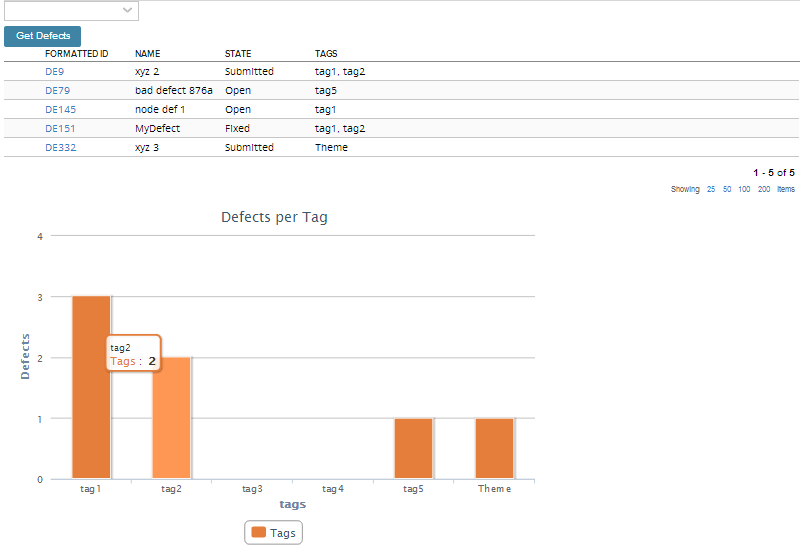
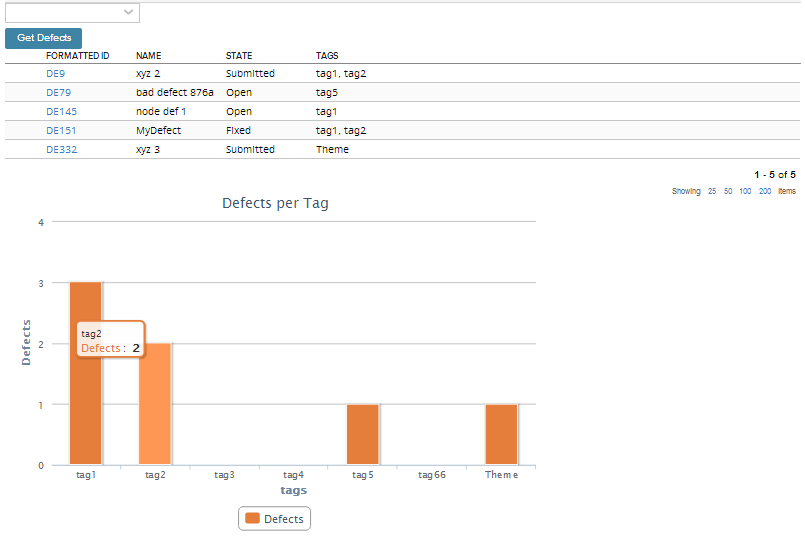
corrected name in series

Changed region(s): [[0.0, 0.0, 0.9938, 0.3831], [0.0, 0.5009, 0.6522, 1.0], [0.2484, 0.3536, 0.4348, 0.4125]]

diff --git a/deploy/App.html b/deploy/App.html
@@ -7,7 +7,7 @@
 
     <script type="text/javascript">
         Rally.onReady(function () {
-                Ext.define("CustomApp",{extend:"Rally.app.App",componentCls:"app",items:[{xtype:"container",itemId:"widgets"},{xtype:"container",itemId:"gridContainer",columnWidth:1}],launch:function(){var that=this;that.tagPicker=Ext.create("Rally.ui.picker.TagPicker",{itemId:"tagpicker"}),that.down("#widgets").add(this.tagPicker),that.down("#widgets").add({xtype:"rallybutton",id:"getTasks",text:"Get Defects",handler:function(){that._getDefects()}})},_getDefects:function(){var count=0,that=this,selectedTagRecords=this.tagPicker._getRecordValue();if(that._tagNames=[],that._defectsPerTag={},console.log(selectedTagRecords.length),selectedTagRecords.length>0){var tagFilters=[];_.each(selectedTagRecords,function(thisTag){var thisTagName=thisTag.get("Name");that._tagNames.push(thisTagName);var tagFilter={property:"Tags.Name",operator:"contains",value:thisTagName};tagFilters.push(tagFilter)}),that._defectsPerTag=_.object(_.map(that._tagNames,function(item){return[item,count]}))}else that._noTagsNotify();Ext.create("Rally.data.wsapi.Store",{model:"Defect",fetch:["FormattedID","Name","State"],autoLoad:!0,listeners:{load:this._onDefectsLoaded,scope:this},filters:Rally.data.wsapi.Filter.or(tagFilters)})},_onDefectsLoaded:function(store,records){var that=this,promises=[];0===records.length&&that._noArtifactsNotify(),_.each(records,function(artifact){promises.push(that._getArtifactTags(artifact,that))}),Deft.Promise.all(promises).then({success:function(results){that._artifactsWithTags=results,console.log("that._defectsPerTag",that._defectsPerTag),that._makeGrid()}})},_getArtifactTags:function(artifact,scope){var that=this,deferred=Ext.create("Deft.Deferred"),that=scope,tags=[],artifactRef=artifact.get("_ref"),artifactObjectID=artifact.get("ObjectID"),artifactFormattedID=artifact.get("FormattedID"),artifactName=artifact.get("Name"),artifactState=artifact.get("State"),tagsCollection=artifact.getCollection("Tags",{fetch:["Name","ObjectID"]}),tagCount=tagsCollection.getCount();return tagsCollection.load({callback:function(records,operation,success){_.each(records,function(tag){tags.push(tag);for(k in that._defectsPerTag)k===tag.get("Name")&&that._defectsPerTag[k]++}),result={_ref:artifactRef,ObjectID:artifactObjectID,FormattedID:artifactFormattedID,Name:artifactName,State:artifactState,Tags:tags},deferred.resolve(result)}}),deferred},_makeGrid:function(){var that=this;console.log("that._artifactsWithTags",that._artifactsWithTags),that._artifactTagsGrid&&that._artifactTagsGrid.destroy();var gridStore=Ext.create("Rally.data.custom.Store",{data:that._artifactsWithTags,pageSize:1e3,remoteSort:!1});that._artifactTagsGrid=Ext.create("Rally.ui.grid.Grid",{itemId:"artifactGrid",store:gridStore,columnCfgs:[{text:"Formatted ID",dataIndex:"FormattedID",xtype:"templatecolumn",tpl:Ext.create("Rally.ui.renderer.template.FormattedIDTemplate")},{text:"Name",dataIndex:"Name"},{text:"State",dataIndex:"State"},{text:"Tags",dataIndex:"Tags",renderer:function(values){var tagArray=[];return _.each(values,function(tag){var tagName=tag.get("Name");tagArray.push(tagName)}),tagArray.join(", ")},flex:1}]}),that.down("#gridContainer").add(that._artifactTagsGrid),that._artifactTagsGrid.reconfigure(gridStore),that._prepareChart()},_noArtifactsNotify:function(){this.down("#gridContainer").add({xtype:"container",html:"No artifacts found matching some or all selected tags."})},_prepareChart:function(){var that=this;that._series=[],that._categories=[],that._data=[];var numberOfTags=_.size(that._defectsPerTag);console.log("numberOfTags",numberOfTags);for(k in that._defectsPerTag)that._categories.push(k),that._data.push({name:k,y:that._defectsPerTag[k]});that._makeChart()},_makeChart:function(){this.down("#myChart")&&this.remove("myChart"),this.add({xtype:"rallychart",itemId:"myChart",width:600,chartConfig:{chart:{type:"column",zoomType:"xy"},title:{text:"Defects per Tag"},xAxis:{title:{enabled:!0,tickInterval:1,text:"tags"},startOnTick:!0,endOnTick:!0,showLastLabel:!0,allowDecimals:!1},yAxis:{title:{text:"Defects"},allowDecimals:!1}},chartData:{categories:this._categories,series:[{type:"column",name:"Tags",data:this._data}]}}),this.down("#myChart")._unmask()}});
+                Ext.define("CustomApp",{extend:"Rally.app.App",componentCls:"app",items:[{xtype:"container",itemId:"widgets"},{xtype:"container",itemId:"gridContainer",columnWidth:1}],launch:function(){var that=this;that.tagPicker=Ext.create("Rally.ui.picker.TagPicker",{itemId:"tagpicker"}),that.down("#widgets").add(this.tagPicker),that.down("#widgets").add({xtype:"rallybutton",id:"getTasks",text:"Get Defects",handler:function(){that._getDefects()}})},_getDefects:function(){var count=0,that=this,selectedTagRecords=this.tagPicker._getRecordValue();if(that._tagNames=[],that._defectsPerTag={},console.log(selectedTagRecords.length),selectedTagRecords.length>0){var tagFilters=[];_.each(selectedTagRecords,function(thisTag){var thisTagName=thisTag.get("Name");that._tagNames.push(thisTagName);var tagFilter={property:"Tags.Name",operator:"contains",value:thisTagName};tagFilters.push(tagFilter)}),that._defectsPerTag=_.object(_.map(that._tagNames,function(item){return[item,count]}))}else that._noTagsNotify();Ext.create("Rally.data.wsapi.Store",{model:"Defect",fetch:["FormattedID","Name","State"],autoLoad:!0,listeners:{load:this._onDefectsLoaded,scope:this},filters:Rally.data.wsapi.Filter.or(tagFilters)})},_onDefectsLoaded:function(store,records){var that=this,promises=[];0===records.length&&that._noArtifactsNotify(),_.each(records,function(artifact){promises.push(that._getArtifactTags(artifact,that))}),Deft.Promise.all(promises).then({success:function(results){that._artifactsWithTags=results,console.log("that._defectsPerTag",that._defectsPerTag),that._makeGrid()}})},_getArtifactTags:function(artifact,scope){var that=this,deferred=Ext.create("Deft.Deferred"),that=scope,tags=[],artifactRef=artifact.get("_ref"),artifactObjectID=artifact.get("ObjectID"),artifactFormattedID=artifact.get("FormattedID"),artifactName=artifact.get("Name"),artifactState=artifact.get("State"),tagsCollection=artifact.getCollection("Tags",{fetch:["Name","ObjectID"]}),tagCount=tagsCollection.getCount();return tagsCollection.load({callback:function(records,operation,success){_.each(records,function(tag){tags.push(tag);for(k in that._defectsPerTag)k===tag.get("Name")&&that._defectsPerTag[k]++}),result={_ref:artifactRef,ObjectID:artifactObjectID,FormattedID:artifactFormattedID,Name:artifactName,State:artifactState,Tags:tags},deferred.resolve(result)}}),deferred},_makeGrid:function(){var that=this;console.log("that._artifactsWithTags",that._artifactsWithTags),that._artifactTagsGrid&&that._artifactTagsGrid.destroy();var gridStore=Ext.create("Rally.data.custom.Store",{data:that._artifactsWithTags,pageSize:1e3,remoteSort:!1});that._artifactTagsGrid=Ext.create("Rally.ui.grid.Grid",{itemId:"artifactGrid",store:gridStore,columnCfgs:[{text:"Formatted ID",dataIndex:"FormattedID",xtype:"templatecolumn",tpl:Ext.create("Rally.ui.renderer.template.FormattedIDTemplate")},{text:"Name",dataIndex:"Name"},{text:"State",dataIndex:"State"},{text:"Tags",dataIndex:"Tags",renderer:function(values){var tagArray=[];return _.each(values,function(tag){var tagName=tag.get("Name");tagArray.push(tagName)}),tagArray.join(", ")},flex:1}]}),that.down("#gridContainer").add(that._artifactTagsGrid),that._artifactTagsGrid.reconfigure(gridStore),that._prepareChart()},_noArtifactsNotify:function(){this.down("#gridContainer").add({xtype:"container",html:"No artifacts found matching some or all selected tags."})},_prepareChart:function(){var that=this;that._series=[],that._categories=[],that._data=[];var numberOfTags=_.size(that._defectsPerTag);console.log("numberOfTags",numberOfTags);for(k in that._defectsPerTag)that._categories.push(k),that._data.push({name:k,y:that._defectsPerTag[k]});that._makeChart()},_makeChart:function(){this.down("#myChart")&&this.remove("myChart"),this.add({xtype:"rallychart",itemId:"myChart",width:600,chartConfig:{chart:{type:"column",zoomType:"xy"},title:{text:"Defects per Tag"},xAxis:{title:{enabled:!0,tickInterval:1,text:"tags"},startOnTick:!0,endOnTick:!0,showLastLabel:!0,allowDecimals:!1},yAxis:{title:{text:"Defects"},allowDecimals:!1}},chartData:{categories:this._categories,series:[{type:"column",name:"Defects",data:this._data}]}}),this.down("#myChart")._unmask()}});
 
             Rally.launchApp('CustomApp', {
                 name:"Defects by Tags",

diff --git a/App.js b/App.js
@@ -246,7 +246,7 @@
                 series:[
                     {
                        type: 'column',
-                       name: 'Tags',
+                       name: 'Defects',
                        data: this._data
                     }
                     

diff --git a/deploy/App-uncompressed.html b/deploy/App-uncompressed.html
@@ -255,7 +255,7 @@
                 series:[
                     {
                        type: 'column',
-                       name: 'Tags',
+                       name: 'Defects',
                        data: this._data
                     }
                     
